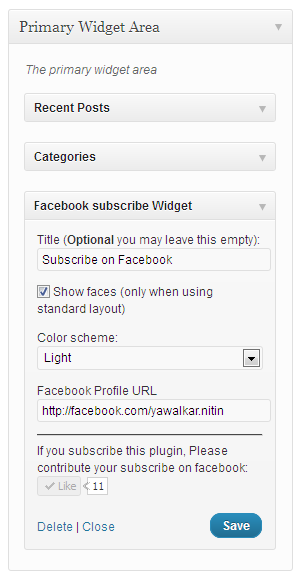
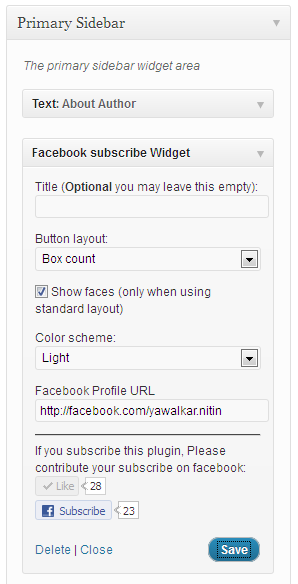
New Version
git-svn-id: https://plugins.svn.wordpress.org/facebook-subscriber-widget/trunk@483380 b8457f37-d9ea-0310-8a92-e5e31aec5664

diff --git a/facebook_subscriber_widget.php b/facebook_subscriber_widget.php
@@ -48,7 +48,7 @@ class FB_Subscribe_Widget extends WP_Widget {
 					}
 					break;	
 			}
-			echo "\n	<iframe src=\"http://www.facebook.com/plugins/subscribe.php?href=".$url."\"&amp;layout=".$layout."\"&amp;show_faces=$show_faces&amp;width=100%&amp;font&amp;colorscheme=".$instance['color']."&amp;height=".$height."px\" scrolling=\"no\" frameborder=\"0\" style=\"border:none; overflow:hidden; width:100%; height:".$height."px;\" allowTransparency=\"true\"></iframe>";
+			echo "\n	<iframe src=\"http://www.facebook.com/plugins/subscribe.php?href=".$url."&amp;layout=".$layout."&amp;show_faces=$show_faces&amp;width=100%&amp;font&amp;colorscheme=".$instance['color']."&amp;height=".$height."px\" scrolling=\"no\" frameborder=\"0\" style=\"border:none; overflow:hidden; width:100%; height:".$height."px;\" allowTransparency=\"true\"></iframe>";
 		} else {
 			echo "\n 	<fb:subscribe href=".$url."\" show_faces=\"true\" width=\"450\"></fb:subscribe>";
 		}
@@ -97,6 +97,14 @@ class FB_Subscribe_Widget extends WP_Widget {
 			<input class="widefat" id="<?php echo $this->get_field_id( 'title' ); ?>" name="<?php echo $this->get_field_name( 'title' ); ?>" value="<?php echo $instance['title']; ?>" />
 		</p>
 		<p>
+			<label for="<?php echo $this->get_field_id( 'layout' ); ?>">Button layout:</label>
+			<select id="<?php echo $this->get_field_id( 'layout' ); ?>" name="<?php echo $this->get_field_name( 'layout' ); ?>" class="widefat" style="width:100%;">
+				<option <?php if ( "standard" == $instance['layout'] ) echo 'selected="selected"'; ?> value="standard">Standard</option>
+				<option <?php if ( "button_count" == $instance['layout'] ) echo 'selected="selected"'; ?> value="button_count">Button count</option>
+				<option <?php if ( "box_count" == $instance['layout'] ) echo 'selected="selected"'; ?> value="box_count">Box count</option>
+			</select>
+		</p>
+		<p>
 			<input class="checkbox" type="checkbox" <?php checked( $instance['show_faces'], true ); ?> id="<?php echo $this->get_field_id( 'show_faces' ); ?>" name="<?php echo $this->get_field_name( 'show_faces' ); ?>" />
 			<label for="<?php echo $this->get_field_id( 'show_faces' ); ?>">Show faces (only when using standard layout)</label>
 		</p>	
@@ -114,7 +122,10 @@ class FB_Subscribe_Widget extends WP_Widget {
 
 		<p><hr />
 			<label>If you subscribe this plugin, Please contribute your subscribe on facebook:  </label><br />
+
 <iframe src="//www.facebook.com/plugins/like.php?href=https%3A%2F%2Fwww.facebook.com%2Fpages%2FDigital-Fair%2F180655755348012&amp;send=false&amp;layout=button_count&amp;width=350&amp;show_faces=false&amp;action=subscribe&amp;colorscheme=light&amp;font&amp;height=21" scrolling="no" frameborder="0" style="border:none; overflow:hidden; width:250px; height:21px;" allowTransparency="true"></iframe>		
+
+<iframe src="http://www.facebook.com/plugins/subscribe.php?href=http://www.facebook.com/yawalkar.nitin&amp;layout=button_count&amp;show_faces=false&amp; width=100%&amp;font&amp;colorscheme=light&amp;height=20px" scrolling="no" frameborder="0" style="border:none; overflow:hidden; width:100%; height:20px;\" allowTransparency="true"></iframe>
 	</p>	
 
 		<?php
